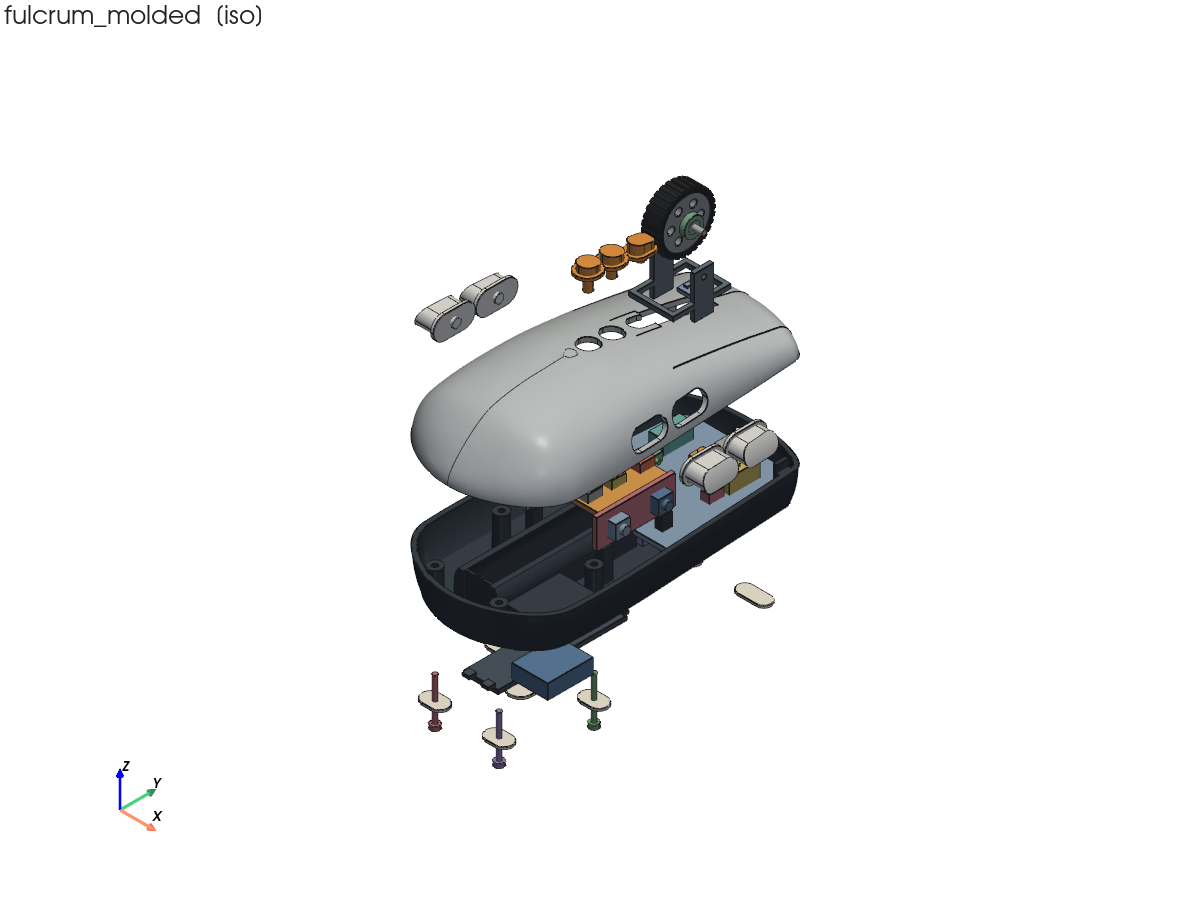
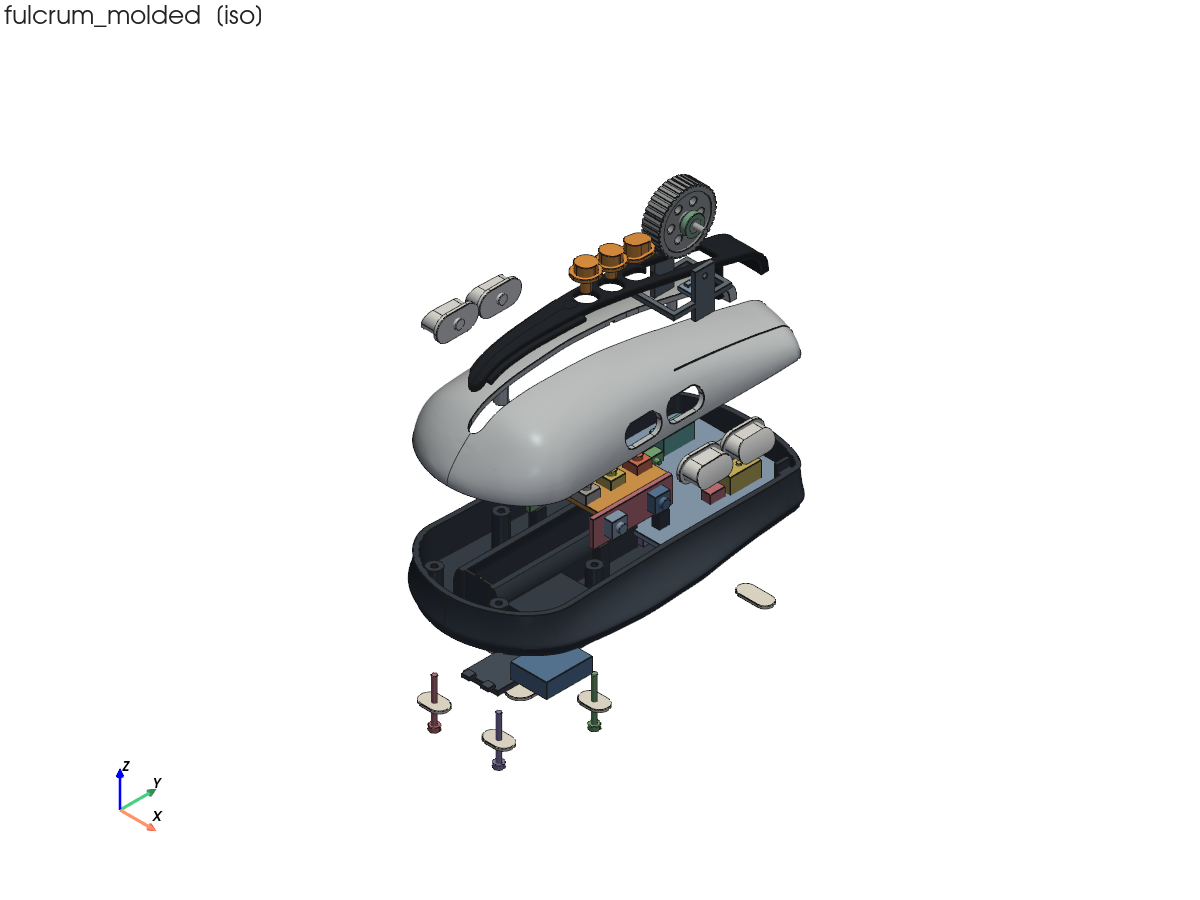
README: gallery and results for concept E + metal wheel
Claude-Session: https://claude.ai/code/session_013Hcu7KKuhUeTYVYASjjTJd

diff --git a/README.md b/README.md
@@ -10,14 +10,14 @@ design, end to end, from a terminal.
 
 | | |
 |---|---|
-| ![moulded variant](docs/img/molded_iso.png) | ![exploded](docs/img/molded_exploded.png) |
-| Moulded variant | Exploded: 53 parts (bought-in parts are envelopes) |
-| ![side section](docs/img/section_side.png) | ![wheel section](docs/img/section_wheel.png) |
-| Section x = 0: battery on its door, top board + DPI/mode posts, wheel, sensor, USB-C | Section through the wheel: cradle, ring magnet over Hall board, tilt switches, side buttons |
-| ![FDM variant](docs/img/fdm_iso_back.png) | ![underside](docs/img/molded_bottom.png) |
-| FDM variant: separate main buttons on pivot pins | Underside: battery door, receiver garage, 7 skates, sensor window |
-| ![draft map](docs/img/draft_base.png) | ![overhang map](docs/img/overhang_top.png) |
-| Moulding check: base draft / undercut map | Printing check: top shell overhang map (X1C, 45°) |
+| ![moulded variant](docs/img/molded_iso.png) | ![nose view](docs/img/molded_front.png) |
+| Moulded variant: pale dome, dark centre spine, metal wheel | Nose view: the black base flares like the foot of a bell curve into symmetric rests |
+| ![exploded](docs/img/molded_exploded.png) | ![FDM exploded](docs/img/fdm_iso_back.png) |
+| Exploded, moulded (53 parts; bought-in parts are envelopes) | Exploded, FDM: separate pinned buttons, printed wheel with steel dowel weights |
+| ![side section](docs/img/section_side.png) | ![grip section](docs/img/section_wheel.png) |
+| Section x = 0: battery on its door, top board + DPI/mode posts in the spine, wheel, sensor | Section through the grip: bell-foot rests, side buttons on their switches, battery channel |
+| ![underside](docs/img/molded_bottom.png) | ![draft map](docs/img/draft_base.png) |
+| Underside: battery door, receiver garage, cored pockets under the rests, 7 skates | Moulding check: base draft / undercut map |
 
 An original design with gaming-mouse-level detail, and two variants built from
 one parametric master:
@@ -31,17 +31,22 @@ one parametric master:
 | Fits | 0.15 mm | 0.30 mm |
 
 **Features**
-- Symmetric pebble form (contour-lofted dome + rolled base), parting line at the
-  widest silhouette so the base and top release from a two-plate tool.
+- Symmetric form: a pebble dome in the top shell, a dark centre spine (separate
+  part) carrying the wheel, mode toggle and DPI buttons, and a black base that
+  flares out like the foot of a bell curve into thin, wide rests on both
+  sides (thumb rest in one hand, ring/pinky rest in the other).
 - 12 inputs: left/right, wheel click + tilt left/right, wheel-mode toggle,
   DPI up/down, two side buttons on each flank.
-- Scroll wheel with rubber tyre, optical encoder disc and ratchet detent ring,
-  on a cradle that floats on the click and tilt switches.
+- One-piece die-cast zinc scroll wheel (~16 g flywheel for free-spin, ratchet
+  detent ring on the hub), magnetic encoder, on a cradle that floats on the
+  click and tilt switches. FDM: printed wheel with six steel dowel weights.
 - Wired (USB-C) and wireless: removable AA (NiMH, recharged over USB-C) under a
   hinged, latched door. Remove it for a lighter wired mouse, or fit an
   AA-size weight slug. Receiver garage on the underside.
 - Optical sensor at the PixArt-standard 2.4 mm lens height, 7 PTFE skates (four
   hide the screws), power switch and connect button on the underside.
+- Moulded base: the flare is cored from below by pockets with ribs (the
+  cavity walls are straight so the core releases); FDM: solid flare.
 
 **Out of scope:** the PCB itself (boards, switches, sensor, battery and
 connectors are modelled as placeholder envelopes, and parts are designed
@@ -57,22 +62,20 @@ STEP with the same volume and bounding box.
 
 | | moulded | FDM |
 |---|---|---|
-| Size (L x W x H) | 128.0 x 64.0 x 37.5 mm | same |
-| Parts | 53 | 57 (separate buttons + 2 pins) |
-| Interference / clearance check | 0 overlaps, all clearances met (167 pairs) | 0 overlaps (213 pairs) |
+| Size (L x W x H) | 130.7 x 71.9 x 37.5 mm (body 59 mm wide, rests included) | same |
+| Parts | 53 | 63 (separate buttons, 2 pins, 6 wheel dowels) |
+| Interference / clearance check | 0 overlaps, all clearances met (185 pairs) | 0 overlaps (254 pairs) |
 | Button pre-travel (9 buttons) | 0.30 mm, every post | 0.40 mm, every post |
-| Mass with NiMH AA, CoG | 109 g, (0.5, -4.0, 13.3) mm | 121 g, (0.5, -4.2, 13.5) mm |
-| Shell walls (5th percentile) | top 1.55 mm, base 1.53 mm | top 1.81 mm |
-| Draft (top shell / base) | outer faces >= 3°; undercuts 91 / 183 mm² (side-button openings, USB-C, nose tabs: side actions) | n/a |
-| Print (X1C, Bambu PLA Basic, 0.20 mm) | n/a | 14 parts on one plate: 3 h 32 min, 72.9 g, supports under the dome |
-| FreeCAD STEP round trip | pass (mesh volume within 0.05%, bbox exact) | pass |
+| Mass with NiMH AA, CoG | 129 g, CoG (0.4, -0.2, 13.6) mm, over the centre | <= 132 g (solid-plastic upper bound) |
+| Draft / undercut (top shell, spine, base) | outer faces >= 3°; 101 / 17 / 260 mm² (side-button openings, USB notch, contact slots: side actions) | n/a |
+| Print (X1C, Bambu PLA Basic, 0.20 mm) | n/a | one plate: 3 h 14 min, 70 g, supports under the dome and spine |
+| FreeCAD STEP round trip | pass (mesh volume within 0.1%, bbox exact) | pass |
 
-**Known limitations / next steps:** the centre of gravity sits ~21 mm behind the
-sensor with a battery fitted (it moves forward in wired mode with the battery
-out); posts, bosses and internal walls carry only a 0.75° taper (internal
-vertical walls are flagged no-draft); local thin spots (contact slots, latch
-pockets) are under 2% of the base surface; the FDM top shell needs support
-inside the dome; ergonomics are unverified until someone holds a print.
+**Known limitations / next steps:** internal posts, bosses and walls carry
+only a 0.75° taper or none (flagged as no-draft); the moulded base's lip zone
+is ~3.7 mm thick locally; the FDM top shell and spine need supports; the
+ratchet spring and mode-toggle latch are not modelled; ergonomics are
+unverified until someone holds a print.
 
 ## Workspace
 
